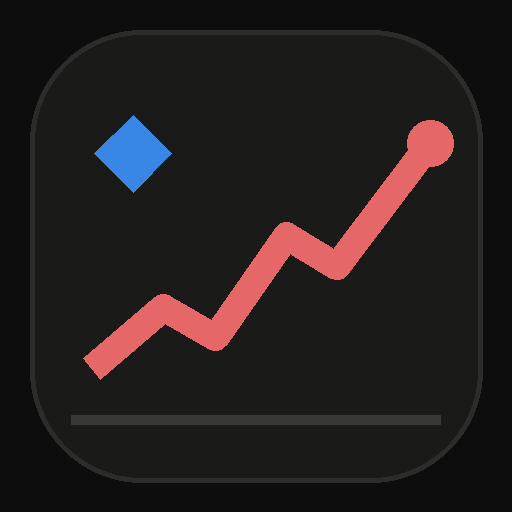
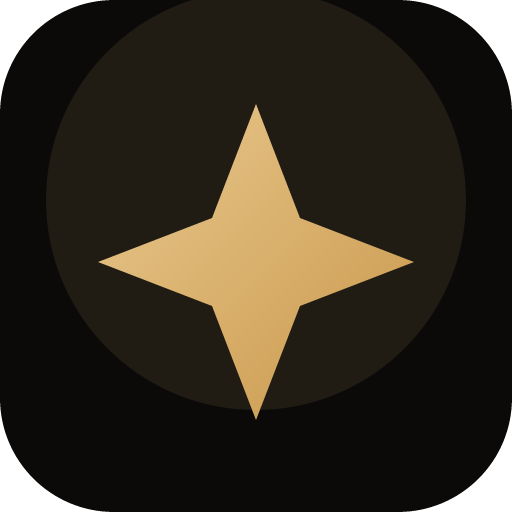
新增：App圖示換新（私人銀行風格金色四角星），含maskable安全區版本
- icon192.png/icon512.png 用使用者提供的SVG重製（深底圓角方形+暖金光暈+
  漸層四角星，跟App內既有的brand-icon星形圖標同一個視覺語彙）
- 新增icon512-maskable.png：內容縮到安全區內縮10%、背景滿版無圓角，
  確保Android圓形裁切不會切到星星尖角；manifest.webmanifest的maskable
  項目改指向這個新檔案，不再跟any版共用同一張圖
- 保留icon_source.svg/icon_source_maskable.svg原始向量檔在repo裡，之後
  要調整圖示直接改這兩個SVG重新輸出即可
- sw.js的SHELL_URLS加入新檔案、快取版本號bump到v1.0.3；APP_VERSION
  bump到2026-08-25.2

技術細節：原始SVG的linearGradient缺少gradientUnits="userSpaceOnUse"，
沒補上的話漸層座標(98,104)-(414,420)會被當成objectBoundingBox的分數值
誤解讀，已修正，實測漸層方向正確。用resvg-py(純Rust binary，無需系統
cairo)轉檔，Windows環境沒有sharp/cairo原生函式庫時的替代方案。

diff --git a/sw.js b/sw.js
@@ -9,8 +9,8 @@
    ——完全不呼叫 respondWith()，讓瀏覽器照平常方式直接打網路，成功拿新資料、
    失敗就是網路錯誤，由 App 的 fetch 呼叫端（index.html 的 fm()）自己顯示
    「連線失敗，請重試」，不會被這裡默默塞舊資料進去。 */
-const CACHE = 'alpha-v1.0.2';
-const SHELL_URLS = ['./', './index.html', './manifest.webmanifest', './icon192.png', './icon512.png'];
+const CACHE = 'alpha-v1.0.3';
+const SHELL_URLS = ['./', './index.html', './manifest.webmanifest', './icon192.png', './icon512.png', './icon512-maskable.png'];
 
 self.addEventListener('install', e => {
   e.waitUntil(

diff --git a/index.html b/index.html
@@ -2015,7 +2015,7 @@
   }
   // 2026-08-25 新增：設定頁顯示 App 版本／Service Worker 版本／SW 狀態，方便確認
   // 手機是不是真的更新到最新版（用手機開 App 時肉眼比對這裡的版本號即可）。
-  const APP_VERSION='2026-08-25.1';
+  const APP_VERSION='2026-08-25.2';
   async function loadAboutVersions(){
     setTxt('about-app-ver',APP_VERSION);
     if(!('serviceWorker' in navigator)){setTxt('about-sw-ver','瀏覽器不支援');setTxt('about-sw-status','—');return}
